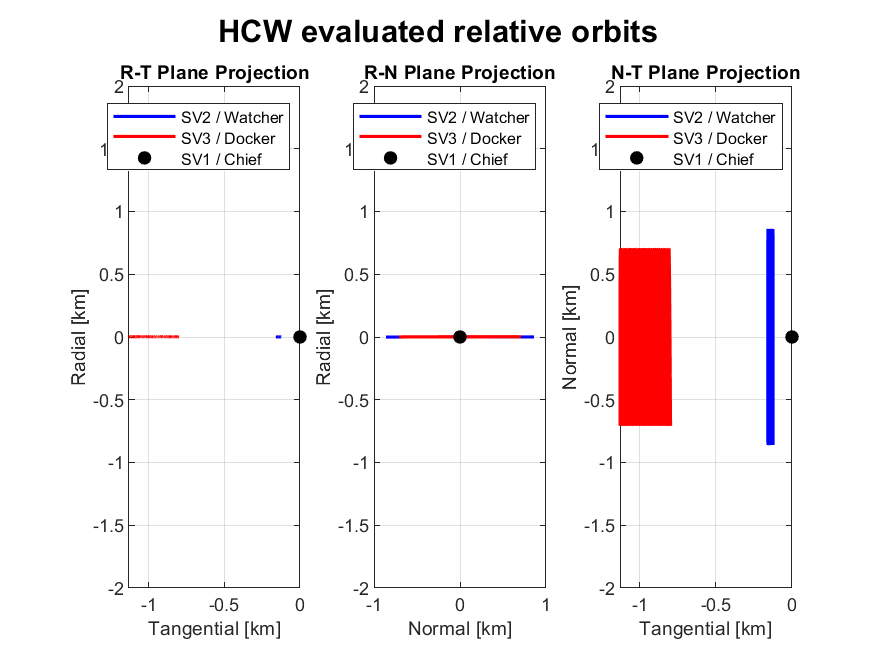
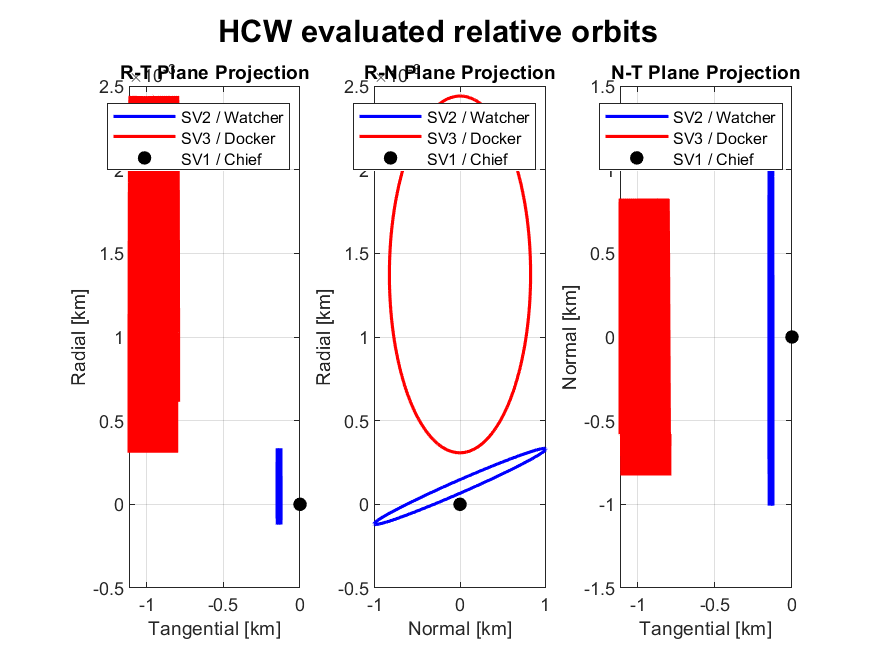
Messing around with HCW methods, added plotting

diff --git a/sim/ps3_sims.m b/sim/ps3_sims.m
@@ -14,15 +14,15 @@ d_a_SV2_init = 0; % m
 d_lambda_SV2_init = -124; % m
 d_e_x_SV2_init = 0; % m
 d_e_y_SV2_init = 0; % m
-d_i_x_SV2_init = 500; % m
-d_i_y_SV2_init = 700; % m
+d_i_x_SV2_init = 79; % m
+d_i_y_SV2_init = 1005; % m
 
 d_a_SV3_init = 0; % m
-d_lambda_SV3_init = -798; % m
+d_lambda_SV3_init = -793; % m
 d_e_x_SV3_init = 0; % m
 d_e_y_SV3_init = 0; % m
-d_i_x_SV3_init = 500; % m
-d_i_y_SV3_init = 500; % m
+d_i_x_SV3_init = 36; % m
+d_i_y_SV3_init = 827; % m
 
 [r_SV2_init, v_SV2_init] = ROE2ECI(a_SV1_init,ex_SV1_init,ey_SV1_init,i_SV1_init,RAAN_SV1_init,u_SV1_init, ...
 d_a_SV2_init,d_lambda_SV2_init,d_e_x_SV2_init,d_e_y_SV2_init,d_i_x_SV2_init,d_i_y_SV2_init);
@@ -62,12 +62,16 @@ rho_pos_ratio_SV3 = vecnorm(SV3_rel_pos, 2, 2)./r_RTN_no_j2(:, 1);
 K_SV2 = hcw_integration_constants([r_SV2_RTN_init; v_SV2_RTN_init], a_SV1_init);
 K_SV3 = hcw_integration_constants([r_SV3_RTN_init; v_SV3_RTN_init], a_SV1_init);
 
-% WIP
+%%%%% EVALUATE HCW (TWO DIFFERENT METHODS %%%%%%%%%
 SV2_HCW_state = evaluate_HCW(t_2, a_SV1_init, K_SV2);
 SV3_HCW_state = evaluate_HCW(t_2, a_SV1_init, K_SV3);
+SV2_HCW_pos_test = hcw_equations_with_ic(t_2, a_SV1_init, [r_SV2_RTN_init; v_SV2_RTN_init]);
+SV3_HCW_pos_test = hcw_equations_with_ic(t_2, a_SV1_init, [r_SV3_RTN_init; v_SV3_RTN_init]);
+
 SV2_HCW_pos = SV2_HCW_state(:, 1:3);
 SV3_HCW_pos = SV3_HCW_state(:, 1:3);
 SV2_HCW_vel = SV2_HCW_state(:, 4:6);
 SV3_HCW_vel = SV3_HCW_state(:, 4:6);
+
 
 

diff --git a/sim/plotting_methods/plot_RT_RN_projections.m b/sim/plotting_methods/plot_RT_RN_projections.m
@@ -12,7 +12,6 @@ function plot_RT_RN_projections(SV2_rel_pos, SV3_rel_pos, title_string,fig_path)
     plot(0, 0, 'ko', 'MarkerFaceColor', 'k'); % Origin
     grid on;
     ylabel('Radial [km]'); xlabel('Tangential [km]');
-    ylim([-2.0, 2.0]);
     title('R-T Plane Projection');
     legend('SV2 / Watcher', 'SV3 / Docker', 'SV1 / Chief');
     % legend('SV2 / Watcher', 'SV1 / Chief');
@@ -24,7 +23,6 @@ function plot_RT_RN_projections(SV2_rel_pos, SV3_rel_pos, title_string,fig_path)
     plot(0, 0, 'ko', 'MarkerFaceColor', 'k'); % Origin
     grid on;
     ylabel('Radial [km]'); xlabel('Normal [km]');
-    ylim([-2.0, 2.0]);
     title('R-N Plane Projection');
     legend('SV2 / Watcher', 'SV3 / Docker', 'SV1 / Chief');
 
@@ -35,7 +33,6 @@ function plot_RT_RN_projections(SV2_rel_pos, SV3_rel_pos, title_string,fig_path)
     plot(0, 0, 'ko', 'MarkerFaceColor', 'k'); % Origin
     grid on;
     ylabel('Normal [km]'); xlabel('Tangential [km]');
-    ylim([-2.0, 2.0]);
     title('N-T Plane Projection');
     legend('SV2 / Watcher', 'SV3 / Docker', 'SV1 / Chief');
     % legend('SV2 / Watcher', 'SV1 / Chief');

diff --git a/sim/plotting_methods/plot_rel_pos_vel_single.m b/sim/plotting_methods/plot_rel_pos_vel_single.m
@@ -1,0 +1,37 @@
+function plot_rel_pos_vel_single(t, t_orbit, rel_pos1, rel_vel1, title_string, fig_path)
+    figure('Color', 'w');
+    
+    % --- Relative Position Plots ---
+    subplot(3, 2, 1);
+    plot(t/t_orbit, rel_pos1(:,1), 'b'); grid on; hold on;
+    ylabel('x [km]');
+    title('Relative Position');
+    
+    subplot(3, 2, 3);
+    plot(t/t_orbit, rel_pos1(:,2), 'b'); grid on; hold on;
+    ylabel('y [km]');
+    
+    subplot(3, 2, 5);
+    plot(t/t_orbit, rel_pos1(:,3), 'b'); grid on; hold on;
+    ylabel('z [km]');
+    xlabel('Number of Orbits');
+
+    % --- Relative Velocity Plots ---
+    subplot(3, 2, 2);
+    plot(t/t_orbit, rel_vel1(:,1), 'b'); grid on; hold on;
+    ylabel('vx [km/s]');
+    title('Relative Velocity');
+
+    subplot(3, 2, 4);
+    plot(t/t_orbit, rel_vel1(:,2), 'b'); grid on; hold on;
+    ylabel('vy [km/s]');
+
+    subplot(3, 2, 6);
+    plot(t/t_orbit, rel_vel1(:,3), 'b'); grid on; hold on;
+    ylabel('vz [km/s]');
+    %xlabel('Time [s]');
+    xlabel('Number of Orbits');
+
+    sgtitle(title_string, 'FontWeight', 'bold');
+    saveas(gcf, fig_path);
+end

diff --git a/sim/sim_main.m b/sim/sim_main.m
@@ -84,6 +84,8 @@ end
 
 if run_PS3
     %%%%% PLOT OF RELATIVE ORBITS USING HCW %%%%%
-    plot_RT_RN_projections(SV2_HCW_pos, SV3_HCW_pos, 'HCW evaluated relative orbits', 'figures/PS3/RTN_projections_HCW.png');
-    plot_RT_RN_projections(SV2_rel_pos, SV3_rel_pos, 'HCW evaluated relative orbits', 'figures/PS3/RTN_projections_numerical.png');
+    plot_rel_pos_vel_single(t_2, t_orbit, SV2_HCW_pos, SV2_HCW_vel, 'SV2 HCW evaluate relative position + velocity', 'figures/PS3/HCW_pos_vel_SV2.png');
+    plot_rel_pos_vel_single(t_2, t_orbit, SV3_HCW_pos, SV3_HCW_vel, 'SV3 HCW evaluate relative position + velocity', 'figures/PS3/HCW_pos_vel_SV2.png');
+    plot_RT_RN_projections(SV2_HCW_pos_test, SV3_HCW_pos_test, 'HCW evaluated relative orbits', 'figures/PS3/RTN_projections_HCW.png');
+    plot_RT_RN_projections(SV2_rel_pos, SV3_rel_pos, 'Non-linear EOMs relative orbits', 'figures/PS3/RTN_projections_numerical.png');
 end

diff --git a/sim/eoms/hcw_equations_with_ic.m b/sim/eoms/hcw_equations_with_ic.m
@@ -1,0 +1,16 @@
+function position = hcw_equations_with_ic(t, a, state0)
+    global mu_earth;
+    n = sqrt(mu_earth/a^3);
+    N = length(t);
+    position = zeros(N, 3);
+    x0 = state0(1);
+    y0 = state0(2);
+    z0 = state0(3);
+    xdot0 = state0(4);
+    ydot0 = state0(5);
+    zdot0 = state0(6);
+
+    position(:, 1) = 4*x0 + 2*ydot0/n + xdot0/n*sin(n*t) - (3*x0 + 2*ydot0/n)*cos(n*t);
+    position(:, 2) = -(6*n*x0 + 3*ydot0)*t + (y0 - 2*xdot0/n) + (6*x0 + 4*ydot0/n)*sin(n*t) + 2*xdot0/n * cos(n*t);
+    position(:, 3) = zdot0/n*sin(n*t) + z0*cos(n*t);
+end

diff --git a/sim/hcw_integration_constants.m b/sim/hcw_integration_constants.m
@@ -5,13 +5,6 @@ function [K] = hcw_integration_constants(initial_RTN, a)
     global mu_earth;
     n = sqrt(mu_earth/a^3);
     A = [a*eye(3), zeros(3); zeros(3), a*n*eye(3)];
-    t = 0;
-    B = [1, sin(n*t), cos(n*t), 0, 0, 0; ...
-        -3/2*n*t, 2*cos(n*t), -2*sin(n*t), 1, 0, 0; ...
-        0, 0, 0, 0, sin(n*t), cos(n*t); ...
-        0, cos(n*t), -sin(n*t), 0, 0, 0; ...
-        -3/2, -2*sin(n*t), -2*cos(n*t), 0, 0, 0; ...
-        0, 0, 0, 0, cos(n*t), -sin(n*t)];
     B = [1 0 1 0 0 0; ...
         0 2 0 1 0 0; ...
         0 0 0 0 0 1; ...
